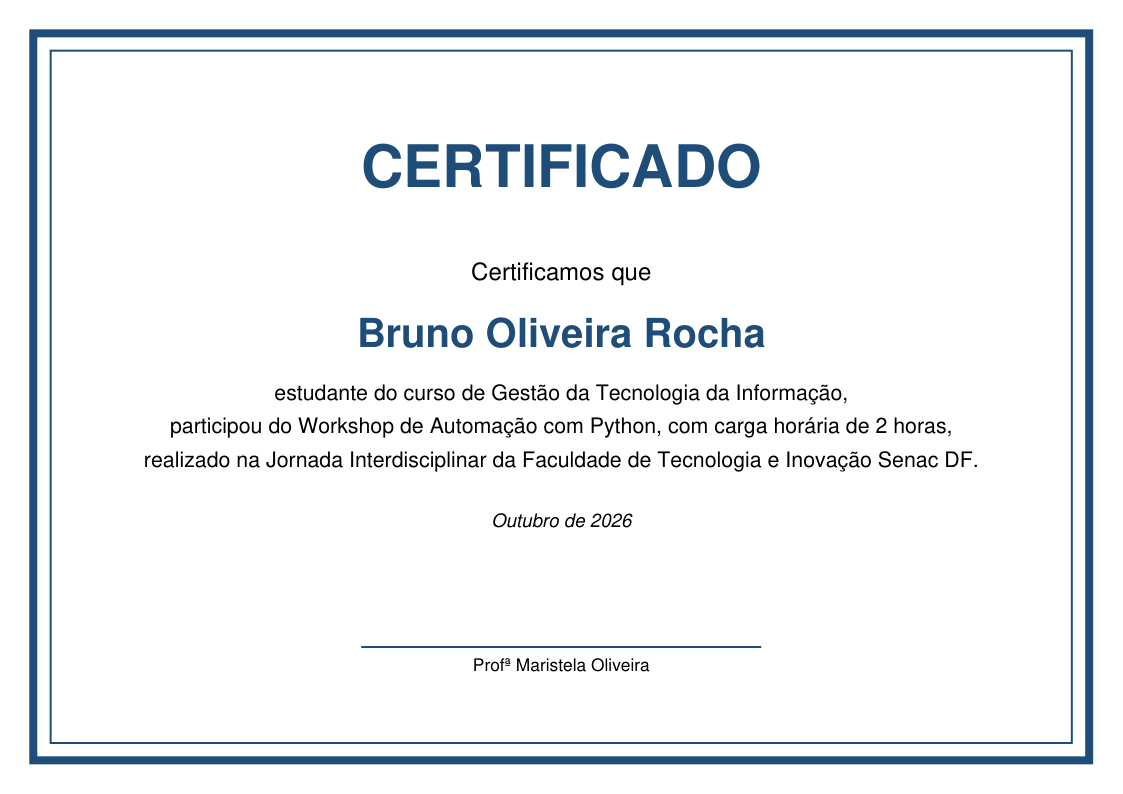
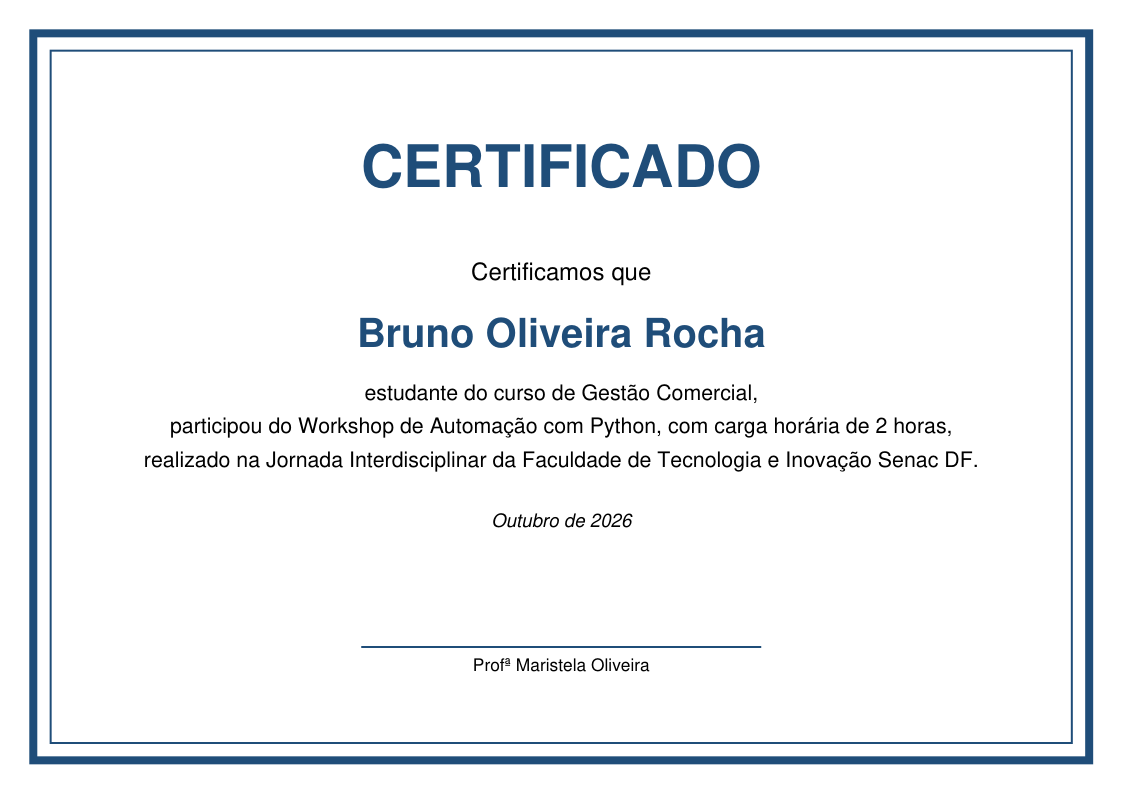
Inclui Gestão Comercial e Gestão de Recursos Humanos

Changed region(s): [[0.2493, 0.4836, 0.748, 0.5139]]

diff --git a/js/main.js b/js/main.js
@@ -560,16 +560,16 @@ addEventListener("resize", () => {
    10. DEMO: CERTIFICADOS
    ========================================================== */
 const INSCRITOS = [
-  ["Ana Costa Rodrigues", "Segurança da Informação", "Sim"],
-  ["Bruno Oliveira Rocha", "Gestão da Tecnologia da Informação", "Sim"],
-  ["Camila Santos Barbosa", "Segurança da Informação", "Sim"],
-  ["Diego Carvalho Nascimento", "Análise e Desenvolvimento de Sistemas", "Sim"],
+  ["Ana Costa Rodrigues", "Inteligência Artificial e Machine Learning", "Sim"],
+  ["Bruno Oliveira Rocha", "Gestão Comercial", "Sim"],
+  ["Camila Santos Barbosa", "Análise e Desenvolvimento de Sistemas", "Sim"],
+  ["Diego Carvalho Nascimento", "Segurança da Informação", "Sim"],
   ["Eduarda Rocha Carvalho", "Inteligência Artificial e Machine Learning", "Não"],
-  ["Felipe Souza Pereira", "Publicidade e Marketing", "Sim"],
-  ["Gabriela Santos Dias", "Inteligência Artificial e Machine Learning", "Sim"],
-  ["Henrique Pereira Santos", "Segurança da Informação", "Não"],
-  ["Isabela Gomes Carvalho", "Gestão da Tecnologia da Informação", "Sim"],
-  ["João Dias Gomes", "Análise e Desenvolvimento de Sistemas", "Não"],
+  ["Felipe Souza Pereira", "Ciência de Dados", "Sim"],
+  ["Gabriela Santos Dias", "Gestão de Recursos Humanos", "Sim"],
+  ["Henrique Pereira Santos", "Gestão da Tecnologia da Informação", "Não"],
+  ["Isabela Gomes Carvalho", "Publicidade e Marketing", "Sim"],
+  ["João Dias Gomes", "Segurança da Informação", "Não"],
 ];
 // siglas para caber na tabela da demo (o nome completo aparece ao passar o mouse)
 const SIGLAS = {
@@ -579,6 +579,8 @@ const SIGLAS = {
   "Gestão da Tecnologia da Informação": "Gestão de TI",
   "Inteligência Artificial e Machine Learning": "IA e Machine Learning",
   "Publicidade e Marketing": "Publicidade e Mkt",
+  "Gestão Comercial": "Gestão Comercial",
+  "Gestão de Recursos Humanos": "Gestão de RH",
 };
 const TOTAL_CERTIFICADOS = 27;
 
@@ -656,7 +658,7 @@ $$(".zoomavel").forEach((img) => img.addEventListener("click", () => abrirLightb
 /* ==========================================================
    12. FINAL: palavra que troca + QR code + confete
    ========================================================== */
-const PALAVRAS = ["sua área", "Segurança da Informação", "Ciência de Dados", "Gestão de TI", "Inteligência Artificial", "Publicidade", "Análise de Sistemas", "sua vida"];
+const PALAVRAS = ["sua área", "Segurança da Informação", "Ciência de Dados", "Gestão de TI", "Inteligência Artificial", "Publicidade", "Análise de Sistemas", "Gestão Comercial", "Recursos Humanos", "sua vida"];
 const rotativo = $("#rotativo");
 let idxPalavra = 0;
 setInterval(() => {

diff --git a/index.html b/index.html
@@ -163,7 +163,9 @@
           <div class="area-card reveal" style="--d:0.30s" tabindex="0"><div class="area-inner"><div class="area-frente"><span>🖥</span><b>Gestão da Tecnologia da Informação</b></div><div class="area-verso">Inventário automático das máquinas e relatório dos chamados</div></div></div>
           <div class="area-card reveal" style="--d:0.35s" tabindex="0"><div class="area-inner"><div class="area-frente"><span>🤖</span><b>Inteligência Artificial e Machine Learning</b></div><div class="area-verso">Organizar e rotular milhares de imagens para treinar modelos</div></div></div>
           <div class="area-card reveal" style="--d:0.40s" tabindex="0"><div class="area-inner"><div class="area-frente"><span>📣</span><b>Publicidade e Marketing</b></div><div class="area-verso">Agendar posts e medir o resultado das campanhas sem planilha manual</div></div></div>
-          <div class="area-card area-voce reveal" style="--d:.45s" tabindex="0"><div class="area-inner"><div class="area-frente"><span>❓</span><b>E você?</b></div><div class="area-verso">Qual tarefa repetitiva <em>você</em> faz toda semana?</div></div></div>
+          <div class="area-card reveal" style="--d:.45s" tabindex="0"><div class="area-inner"><div class="area-frente"><span>🛒</span><b>Gestão Comercial</b></div><div class="area-verso">Gerar o relatório de vendas e metas da equipe toda segunda-feira</div></div></div>
+          <div class="area-card reveal" style="--d:.5s" tabindex="0"><div class="area-inner"><div class="area-frente"><span>👥</span><b>Gestão de Recursos Humanos</b></div><div class="area-verso">Consolidar o ponto e avisar sobre férias e aniversários</div></div></div>
+          <div class="area-card area-voce reveal" style="--d:.55s" tabindex="0"><div class="area-inner"><div class="area-frente"><span>❓</span><b>E você?</b></div><div class="area-verso">Qual tarefa repetitiva <em>você</em> faz toda semana?</div></div></div>
         </div>
       </div>
     </section>

diff --git a/css/style.css b/css/style.css
@@ -339,8 +339,8 @@ mark {
 
 /* ============ 5. Áreas ============ */
 .areas-grid { display: flex; flex-wrap: wrap; justify-content: center; gap: clamp(12px, 1.6vw, 20px); margin-top: 18px; }
-.areas-grid .area-card { flex: 0 0 calc((100% - 3 * clamp(12px, 1.6vw, 20px)) / 4); }
-.area-card { perspective: 900px; height: clamp(120px, 21vh, 180px); outline: none; cursor: pointer; }
+.areas-grid .area-card { flex: 0 0 calc((100% - 4 * clamp(12px, 1.6vw, 20px)) / 5); }
+.area-card { perspective: 900px; height: clamp(120px, 22vh, 190px); outline: none; cursor: pointer; }
 .area-inner {
   position: relative; width: 100%; height: 100%;
   transition: transform .7s cubic-bezier(.3,1.3,.5,1); transform-style: preserve-3d;
@@ -357,7 +357,7 @@ mark {
 .area-verso {
   transform: rotateY(180deg);
   background: linear-gradient(135deg, var(--azul-forte), #24507a);
-  font-size: clamp(14px, 1.25vw, 17px); line-height: 1.35; font-weight: 500;
+  font-size: clamp(13px, 1.15vw, 16px); line-height: 1.35; font-weight: 500;
 }
 .area-voce .area-frente { border-color: rgba(255,212,59,.5); background: rgba(255,212,59,.08); }
 .area-voce .area-verso { background: linear-gradient(135deg, #b8860b, #e0a800); color: #1a1405; }
